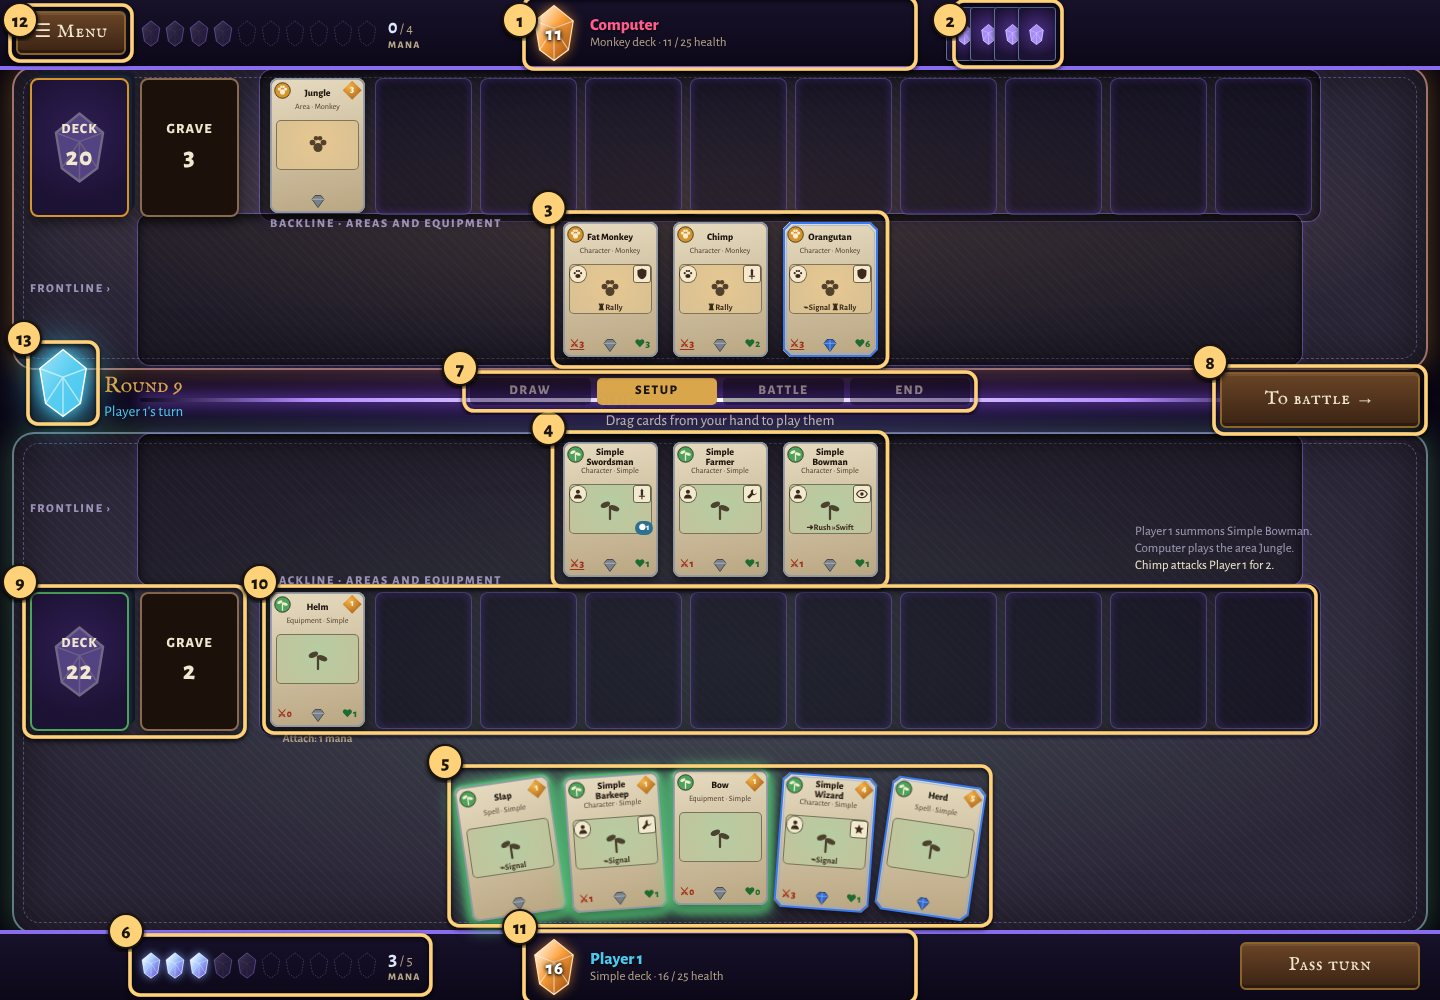
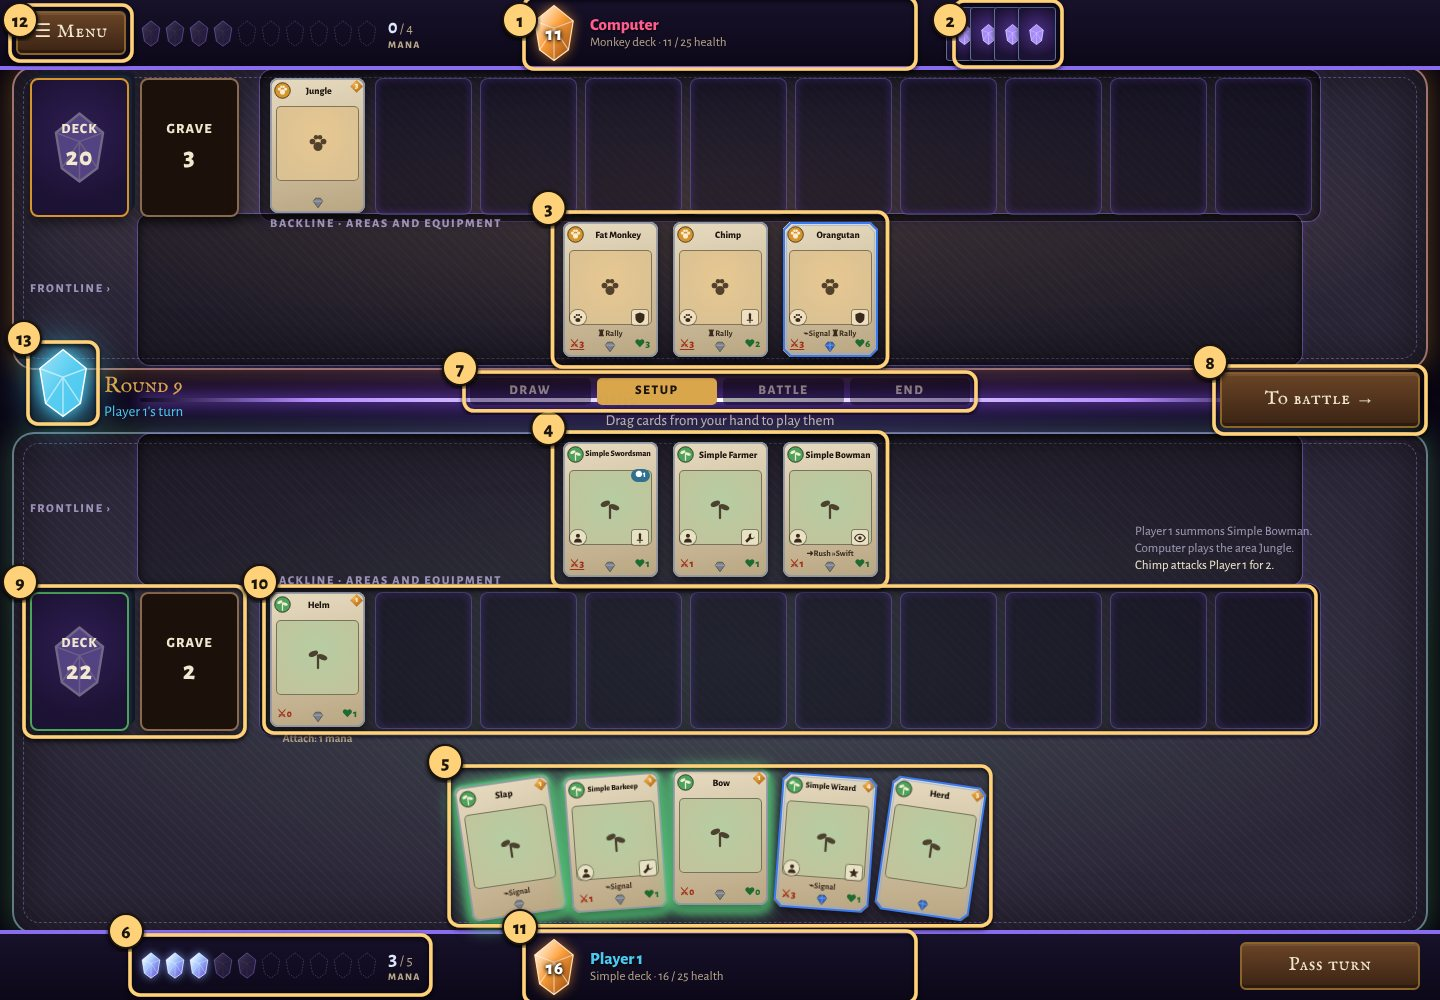
Card face review: names fit on the phone table too, bigger names on the table, skills stay on one line, guide card picture relabelled
Claude-Session: https://claude.ai/code/session_01CQghP5dhHuPfCHNUXbcPCx

diff --git a/js/ui.js b/js/ui.js
@@ -198,15 +198,23 @@ function tagBadge(kind, name) {
 const tagsHTML = c => (c.type === "Character" && (c.tribes?.length || c.classes?.length))
   ? `<div class="tags"><span>${(c.tribes || []).map(t => tagBadge("tribe", t)).join("")}</span><span>${(c.classes || []).map(k => tagBadge("class", k)).join("")}</span></div>` : "";
 
-// One line for every name: a name too wide for its box is set smaller to fit (never below 50%).
-// The width is measured with the card font; the box holds 5.45em of card text, and the name
-// is drawn at 0.98em, so 5.56 name-ems.
+// One line for every name. The name's width (in ems of the name's own font) goes on the card as
+// --nw, and the style sheet shrinks a name wider than its box (never below half size); the box
+// differs between the normal card and the phone table, so the sum is done there (.card .name span).
+// Widths are measured once per name, and again if the card font arrives after the first cards.
 let nameCtx = null;
+const nameWidths = new Map();
+document.fonts?.ready.then(() => nameWidths.clear());
+document.fonts?.addEventListener?.("loadingdone", () => nameWidths.clear());
 const nameFit = n => {
-  nameCtx = nameCtx || document.createElement("canvas").getContext("2d");
-  nameCtx.font = `800 100px ${getComputedStyle(document.body).fontFamily}`;
-  const w = nameCtx.measureText(n).width / 100;
-  return w > 5.15 ? `;--nf:${Math.max(0.5, 5.15 / w).toFixed(3)}` : "";
+  let w = nameWidths.get(n);
+  if (w == null) {
+    nameCtx = nameCtx || document.createElement("canvas").getContext("2d");
+    nameCtx.font = `800 100px ${getComputedStyle(document.body).fontFamily}`;
+    w = nameCtx.measureText(n).width / 100;
+    nameWidths.set(n, w);
+  }
+  return `;--nw:${w.toFixed(3)}`;
 };
 
 function cardHTML(c, opts = {}) {
@@ -239,7 +247,7 @@ function cardHTML(c, opts = {}) {
     <div class="name"><span>${esc(c.name)}</span></div>
     <div class="art">${art ? `<img src="${esc(art)}" alt="">` : glyph(c.group)}</div>
     ${tagsHTML(c)}
-    <div class="skills">${skills}</div>
+    <div class="skills${skills.length > 13 ? " long" : ""}">${skills}</div>
     ${opts.field && c.equipped?.length ? `<div class="equip-count" title="Equipped">●${c.equipped.length}</div>` : ""}
     ${pips}
     ${statsHTML}

diff --git a/css/style.css b/css/style.css
@@ -1502,11 +1502,11 @@ html.intro-on .menu-inner { visibility: hidden; }
 
 /* ------------------------------------------------------------ phone readability
    The table is drawn shrunk on a small screen, so what matters is made bigger: the hand is larger
-   (see PHONE_HAND in js/ui.js), and the cards on the table drop the small type line and use
-   bigger name, skill and stat text. Tap any card to read all of it. */
+   (see PHONE_HAND in js/ui.js), and the cards on the table use bigger name, skill and stat text. Tap any card to read all of it. */
 #stage.small .hand-card .card { font-size: 13px; }
 #stage.small .field-card .card .name { font-size: 1.25em; }
 #stage.small .field-card .card .skills { font-size: 1.05em; }
+#stage.small .field-card .card .skills.long { font-size: 0.85em; white-space: nowrap; }   /* two or three skills: keep to one line */
 #stage.small .field-card .card .stats { font-size: 1.55em; }
 #stage.small .small-card .card .name { font-size: 1.2em; }
 #stage.small .small-card .card .stats { font-size: 1.4em; }
@@ -1551,4 +1551,16 @@ html.intro-on .menu-inner { visibility: hidden; }
 }
 .hand-card:hover .hand-tip, .hand-card.lift .hand-tip, .hand-card.held .hand-tip { display: block; }
 .hand-card.dragging .hand-tip { display: none; }
-.card .name span { font-size: calc(1em * var(--nf, 1)); }
+/* Names stay on one line: --nw is the name's width in its own ems (js/ui.js) and --nbox is how
+   many of those ems the name box holds, so a wider name is shrunk to fit (never below half). */
+.card { --nbox: 5.15; }
+.card .name span { font-size: calc(1em * clamp(0.5, var(--nbox) / var(--nw, 1), 1)); }
+/* A character on the table has no cost gem, so its name can run to the right edge. On the phone
+   table the name is also drawn bigger. */
+.field-card .card { --nbox: 6.7; }
+.field-card .card .name { right: 0.5em; }
+#stage.small .field-card .card { --nbox: 5.3; }
+#stage.small .field-card .card .name { left: 1.7em; right: 0.5em; }
+#stage.small .small-card .card { --nbox: 4.4; }
+#stage.small .small-card .card .name { left: 1.8em; right: 1.6em; }
+#stage.small .hand-tip { width: 300px; font-size: 24px; }

diff --git a/js/tutorial.js b/js/tutorial.js
@@ -535,12 +535,13 @@ function anatomyHTML(c) {
   const K = 1.1, X0 = 11.8, Y0 = 0.4;
   const parts = [
     { side: "L", y: 0.6, px: 1.25, py: 1.25, t: "Fracture", d: "The shattered world it is from" },
-    { side: "L", y: 3.3, px: 1.2, py: 3.1, t: "Card type", d: "Character, Spell, Equipment or Area" },
-    { side: "L", y: 9.4, px: 2.6, py: 10, t: "Skills", d: "Keywords with special rules" },
-    { side: "L", y: 12.4, px: 1.3, py: 13.15, t: "⚔ Attack", d: "Damage it deals" },
-    { side: "R", y: 0.6, px: 9.1, py: 1.3, t: "Mana cost", d: "What it costs to play" },
-    { side: "R", y: 5.2, px: 9.3, py: 6.5, t: "Rarity", d: "The edge color" },
-    { side: "R", y: 9.6, px: 4.9, py: 13.15, t: "♥ Health", d: "Damage it can take" },
+    { side: "L", y: 5.2, px: 1.45, py: 9.4, t: "Tribe", d: "What it is (round symbol)" },
+    { side: "L", y: 9.4, px: 3.2, py: 10.95, t: "Skills", d: "Keywords with special rules" },
+    { side: "L", y: 12.4, px: 1.3, py: 12.5, t: "⚔ Attack", d: "Damage it deals" },
+    { side: "R", y: 0.6, px: 8.45, py: 1.05, t: "Mana cost", d: "What it costs to play" },
+    { side: "R", y: 3.6, px: 9.3, py: 5, t: "Rarity", d: "The edge color and the gem" },
+    { side: "R", y: 6.6, px: 7.9, py: 9.4, t: "Class", d: "What it does (square symbol)" },
+    { side: "R", y: 9.6, px: 8.3, py: 12.5, t: "♥ Health", d: "Damage it can take" },
   ];
   const lines = parts.map(p => {
     const x = X0 + p.px * K, y = Y0 + p.py * K;

diff --git a/guide.html b/guide.html
@@ -69,7 +69,7 @@
 
   <h2 id="card">3. Reading a card</h2>
   <figure class="fit">
-    <img src="guide/card.png" width="597" height="307" alt="A Simple Bowman card with each part labelled: fracture, card type, skills, attack, mana cost, rarity and health">
+    <img src="guide/card.png" width="597" height="307" alt="A Simple Bowman card with each part labelled: fracture, tribe, skills, attack, mana cost, rarity, class and health">
   </figure>
   <p>The three numbers at the bottom are a character's <b>stats</b>:</p>
   <ul>
